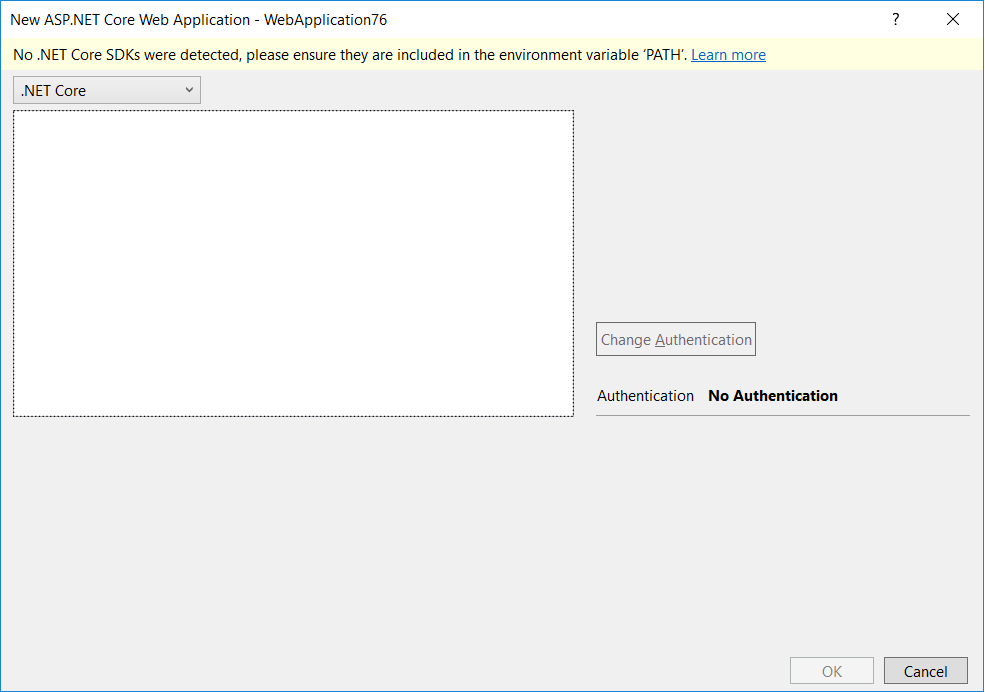
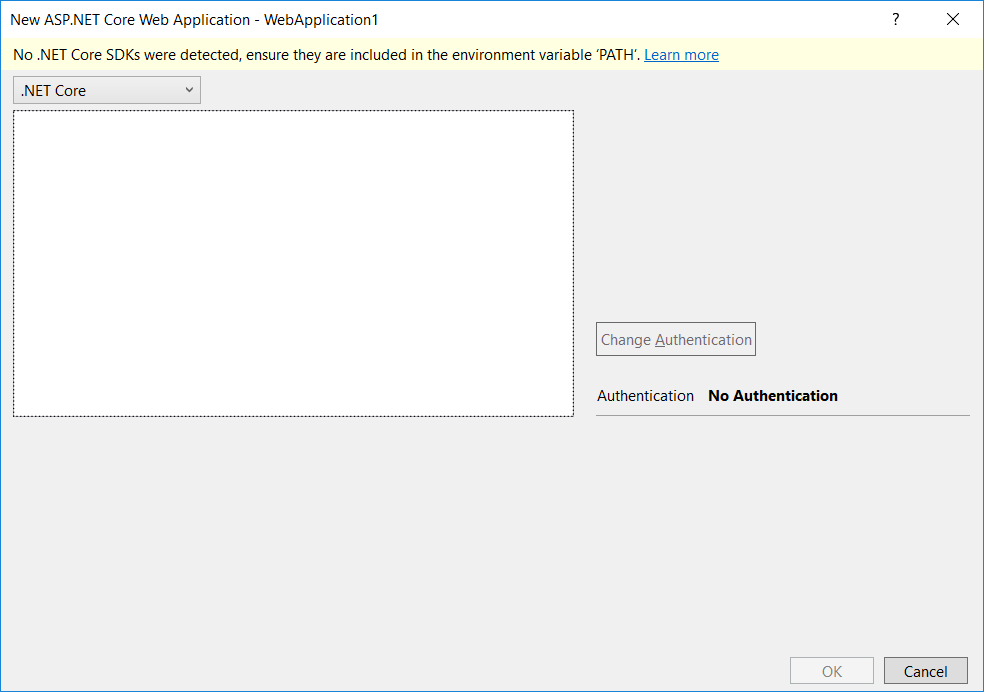
NO SDK

Changed region(s): [[0.2437, 0.0607, 0.7919, 0.091], [0.3655, 0.0, 0.3959, 0.0303]]

diff --git a/aspnetcore/testing/troubleshoot.md b/aspnetcore/testing/troubleshoot.md
@@ -53,7 +53,7 @@ Uninstall the 32-bit .NET Core SDK to prevent this warning. Uninstall from **Con
 ### No .NET Core SDKs were detected
 In the **New Project** dialog for ASP.NET Core you may see the following warning: 
 
-**No .NET Core SDKs were detected, please ensure they are included in the environment variable 'PATH'**
+**No .NET Core SDKs were detected, ensure they are included in the environment variable 'PATH'**
 
 ![A screenshot of the OneASP.NET dialog showing the warning message](troubleshoot/_static/NoNetCore.png)
 
